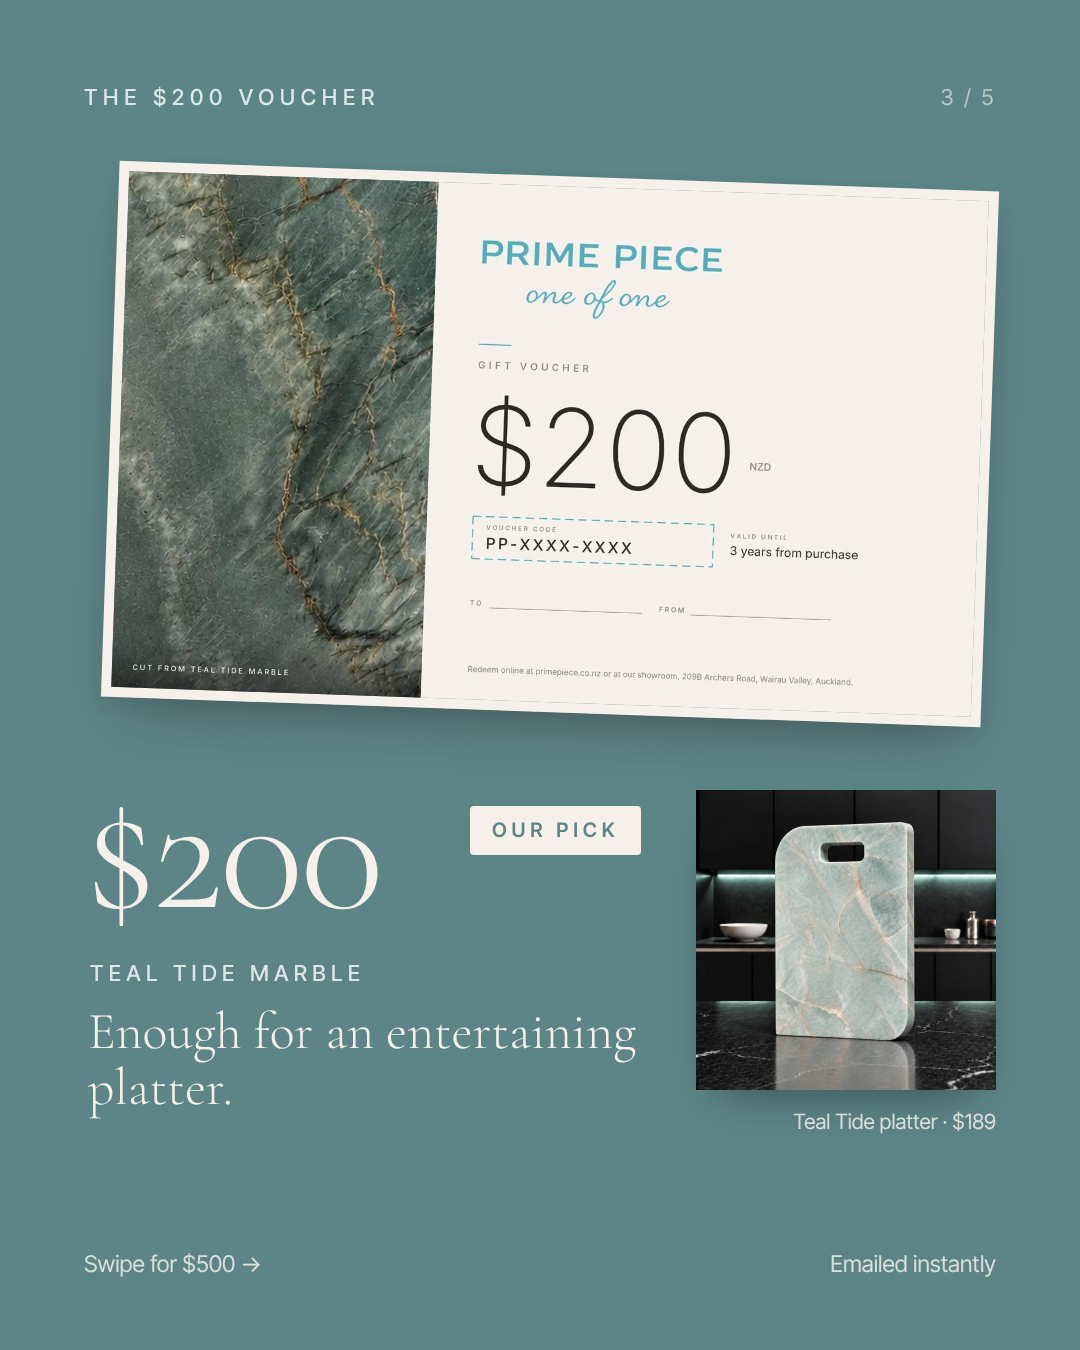
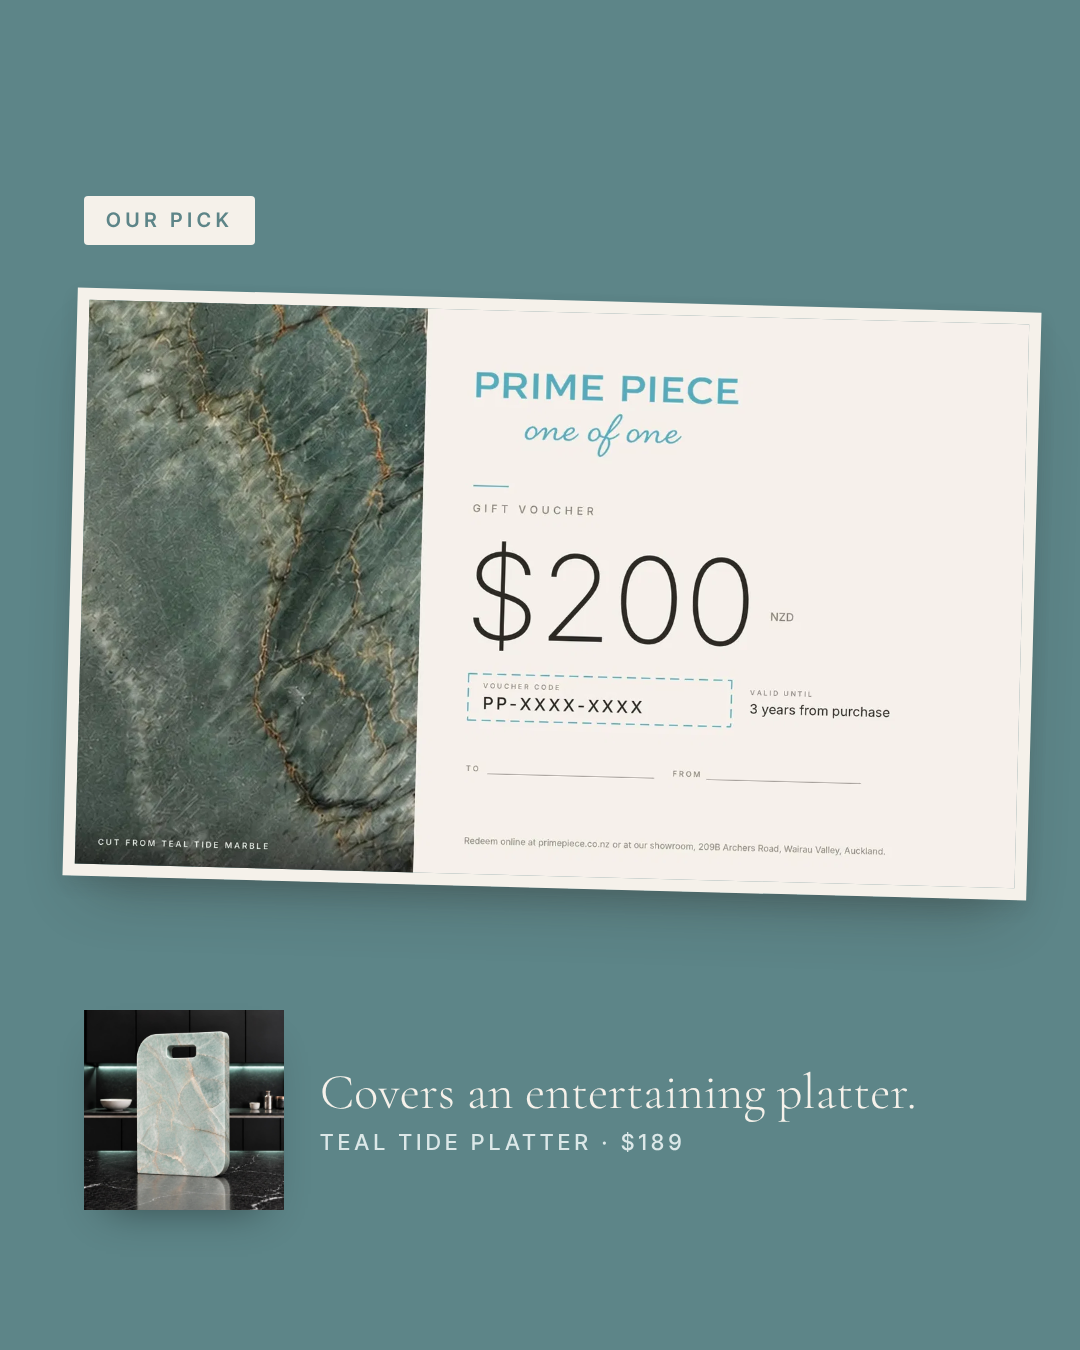
Simplify the voucher carousel: bigger vouchers, one line per slide, new cover line
Claude-Session: https://claude.ai/code/session_01MMmJr8UhcyXTTTPutn6sSp

diff --git a/brand-kit/social/src/vc-shared.css b/brand-kit/social/src/vc-shared.css
@@ -1,15 +1,11 @@
-/* "Meet the vouchers" carousel · IG 4:5, 1080×1350. One slide per voucher, coloured by its stone. */
+/* "Meet the vouchers" carousel · IG 4:5, 1080×1350. One slide per voucher, coloured by its stone.
+   Kept deliberately sparse: the voucher is the hero, one line and one real piece underneath. */
 html,body,.page{width:1080px;height:1350px}
-.top{position:absolute;left:84px;right:84px;top:84px;display:flex;justify-content:space-between;align-items:baseline;font-size:22px}
-.top .eyebrow{font-size:22px}
-.top .num{color:var(--stone);letter-spacing:.12em}
-.hero{position:absolute;left:110px;top:176px;width:860px;height:516px;transform:rotate(-2.5deg)}
-.hero.v.framed{border-width:10px}
-.amt{position:absolute;left:84px;top:772px;font-family:"Cormorant Garamond",serif;font-weight:300;font-size:176px;line-height:.9;letter-spacing:-.02em}
-.stone{position:absolute;left:90px;top:960px;font-size:22px;font-weight:500;letter-spacing:.24em;text-transform:uppercase}
-.what{position:absolute;left:88px;top:1004px;width:560px;font-family:"Cormorant Garamond",serif;font-weight:300;font-size:52px;line-height:1.08}
-.thumb{position:absolute;right:84px;top:790px;width:300px;height:300px;overflow:hidden;box-shadow:0 24px 44px -24px rgba(0,0,0,.45)}
-.thumb img{display:block;width:100%;height:100%;object-fit:cover}
-.cap{position:absolute;right:84px;top:1108px;width:300px;font-size:21px;line-height:1.35;text-align:right}
-.foot{position:absolute;left:84px;right:84px;bottom:72px;display:flex;justify-content:space-between;font-size:23px}
-.tag{position:absolute;left:470px;top:806px;padding:12px 22px 13px;border-radius:4px;font-size:20px;font-weight:600;letter-spacing:.24em;text-transform:uppercase}
+.hero{position:absolute;left:70px;top:300px;width:940px;height:564px;transform:rotate(-2deg)}
+.hero.v.framed{border-width:12px}
+.piece{position:absolute;left:84px;top:1010px;display:flex;align-items:center;gap:36px}
+.piece .thumb{width:200px;height:200px;overflow:hidden;flex:none;box-shadow:0 20px 40px -22px rgba(0,0,0,.45)}
+.piece .thumb img{display:block;width:100%;height:100%;object-fit:cover}
+.piece .line{font-family:"Cormorant Garamond",serif;font-weight:300;font-size:50px;line-height:1.1}
+.piece .line small{display:block;margin-top:10px;font-family:"Inter Tight",sans-serif;font-size:22px;font-weight:500;letter-spacing:.2em;text-transform:uppercase}
+.tag{position:absolute;left:84px;top:196px;padding:12px 22px 13px;border-radius:4px;font-size:20px;font-weight:600;letter-spacing:.24em;text-transform:uppercase}

diff --git a/brand-kit/social/src/vc-5.html b/brand-kit/social/src/vc-5.html
@@ -3,25 +3,13 @@
 <html><head><meta charset="utf-8"><link rel="stylesheet" href="base.css"><link rel="stylesheet" href="vc-shared.css">
 <style>
 .page{background:var(--ivory)}
-.h1{position:absolute;left:84px;top:150px;font-size:104px}
-.list{position:absolute;left:84px;top:430px;width:912px;list-style:none}
-.list li{display:flex;gap:28px;align-items:baseline;padding:30px 0;border-top:1.5px solid var(--line);font-size:32px;color:var(--charcoal)}
-.list li:last-child{border-bottom:1.5px solid var(--line)}
-.list b{font-family:"Cormorant Garamond",serif;font-weight:300;font-size:44px;color:var(--sage-deep);width:44px}
-.cta{position:absolute;left:84px;top:870px;padding:26px 48px 27px;background:var(--charcoal);color:var(--ivory);font-size:24px}
-.url{position:absolute;left:88px;top:972px;font-size:26px;color:var(--ink-soft)}
-.logo{right:84px;bottom:72px;width:210px}
-.foot{right:auto}
-.foot .num{color:var(--stone);letter-spacing:.12em}
+.h1{position:absolute;left:0;right:0;top:430px;text-align:center;font-size:120px}
+.sub{position:absolute;left:0;right:0;top:720px;text-align:center;font-size:28px;color:var(--ink-soft);letter-spacing:.02em}
+.cta{position:absolute;left:50%;top:800px;transform:translateX(-50%);padding:26px 50px 27px;background:var(--charcoal);color:var(--ivory);font-size:24px;white-space:nowrap}
+.logo{left:50%;bottom:90px;width:220px;transform:translateX(-50%)}
 </style></head><body><div class="page">
-<div class="top"><span class="eyebrow">How it works</span><span class="num">5 / 5</span></div>
 <div class="h h1">Their taste.<br><em>Their choice.</em></div>
-<ul class="list">
-  <li><b>1</b>Emailed the moment you pay. No cut-off.</li>
-  <li><b>2</b>Spend on anything, online or in our showroom.</li>
-  <li><b>3</b>Valid for 3 years. Change comes back as credit.</li>
-</ul>
-<div class="cta pill">Shop gift vouchers</div>
-<div class="url">Link in bio · primepiece.co.nz/vouchers</div>
+<div class="sub">Emailed instantly · $100 · $200 · $500 NZD</div>
+<div class="cta pill">Link in bio</div>
 <img class="logo" src="../assets/prime-piece-logo-teal.png" alt="Prime Piece">
 </div></body></html>

diff --git a/brand-kit/social/src/vc-1.html b/brand-kit/social/src/vc-1.html
@@ -3,19 +3,14 @@
 <html><head><meta charset="utf-8"><link rel="stylesheet" href="base.css"><link rel="stylesheet" href="vc-shared.css">
 <style>
 .page{background:var(--ivory)}
-.h1{position:absolute;left:84px;top:140px;font-size:96px}
-.sub{position:absolute;left:88px;top:360px;width:820px;font-size:28px;line-height:1.5;color:var(--ink-soft)}
-.v.a{left:84px;top:478px;width:540px;height:324px;transform:rotate(-4deg)}
-.v.b{left:270px;top:676px;width:540px;height:324px;transform:rotate(1deg)}
-.v.c{left:456px;top:874px;width:540px;height:324px;transform:rotate(-2deg)}
-.foot{color:var(--sage-deep);font-weight:500}
-.foot .num{color:var(--stone);font-weight:400;letter-spacing:.12em}
+.h1{position:absolute;left:84px;top:120px;font-size:100px}
+.v.a{left:70px;top:430px;width:600px;height:360px;transform:rotate(-4deg)}
+.v.b{left:240px;top:648px;width:600px;height:360px;transform:rotate(1deg)}
+.v.c{left:410px;top:866px;width:600px;height:360px;transform:rotate(-2deg)}
+.swipe{position:absolute;right:84px;top:162px;font-size:24px;font-weight:500;color:var(--sage-deep)}
 </style></head><body><div class="page">
-<div class="top"><span class="eyebrow">Prime Piece gift vouchers</span><span class="num">1 / 5</span></div>
-<div class="h h1">Three vouchers.<br><em>Three real stones.</em></div>
-<div class="sub">Each one is printed with a different marble from our workshop. Pick the one that suits them.</div>
+<div class="h h1">Can't pick their stone?<br><em>Let them.</em></div>
 <div class="v light a"><img src="../assets/voucher-100.webp" alt="$100 gift voucher"></div>
 <div class="v light b"><img src="../assets/voucher-200.webp" alt="$200 gift voucher"></div>
 <div class="v c"><img src="../assets/voucher-500.webp" alt="$500 gift voucher"></div>
-<div class="foot"><span>Swipe to meet them →</span><span class="num">$100 · $200 · $500 NZD</span></div>
 </div></body></html>

diff --git a/brand-kit/social/src/vc-4.html b/brand-kit/social/src/vc-4.html
@@ -3,17 +3,11 @@
 <html><head><meta charset="utf-8"><link rel="stylesheet" href="base.css"><link rel="stylesheet" href="vc-shared.css">
 <style>
 .page{background:var(--charcoal);color:var(--ivory)}
-.top .eyebrow,.stone{color:var(--sage-soft)} .top .num{color:rgba(245,241,234,.5)}
-.cap,.foot{color:rgba(245,241,234,.75)}
-.hero.v{box-shadow:0 40px 70px -26px rgba(0,0,0,.7),0 10px 22px rgba(0,0,0,.3)}
-.thumb img{object-position:45% 45%;transform:scale(1.15)}
+.piece .line small{color:var(--sage-soft)}
+.hero{transform:rotate(-1.5deg)}
+.piece .thumb img{object-position:45% 45%;transform:scale(1.15)}
+.hero.v{box-shadow:0 44px 80px -26px rgba(0,0,0,.75),0 10px 22px rgba(0,0,0,.3)}
 </style></head><body><div class="page">
-<div class="top"><span class="eyebrow">The $500 voucher</span><span class="num">4 / 5</span></div>
-<div class="hero v framed"><img src="../assets/voucher-500.webp" alt="$500 Prime Piece gift voucher"></div>
-<div class="amt">$500</div>
-<div class="stone">Emerald Vein marble</div>
-<div class="what">Enough for a one-of-one marble table.</div>
-<div class="thumb"><img src="../assets/photos/table-serpentine-storm.jpg" alt="Serpentine Storm green marble table"></div>
-<div class="cap">Serpentine Storm table · $490</div>
-<div class="foot"><span>Swipe →</span><span>Emailed instantly</span></div>
+<div class="hero v framed "><img src="../assets/voucher-500.webp" alt="$500 Prime Piece gift voucher"></div>
+<div class="piece"><div class="thumb"><img src="../assets/photos/table-serpentine-storm.jpg" alt="Serpentine Storm table"></div><div class="line">Covers a one-of-one marble table.<small>Serpentine Storm table · $490</small></div></div>
 </div></body></html>

diff --git a/brand-kit/social/src/vc-2.html b/brand-kit/social/src/vc-2.html
@@ -2,16 +2,12 @@
 <!-- Meet the vouchers carousel, slide 2 of 5 · IG 4:5 1080×1350. -->
 <html><head><meta charset="utf-8"><link rel="stylesheet" href="base.css"><link rel="stylesheet" href="vc-shared.css">
 <style>
-.page{background:var(--cream-soft)}
-.thumb img{object-position:50% 0;transform:scale(1.22);transform-origin:50% 22%}
-.stone{color:var(--sage-deep)} .cap{color:var(--ink-soft)} .foot{color:var(--ink-soft)}
+.page{background:var(--cream-soft);color:var(--charcoal)}
+.piece .line small{color:var(--sage-deep)}
+.hero{transform:rotate(-2deg)}
+.piece .thumb img{object-position:50% 0;transform:scale(1.22);transform-origin:50% 22%}
+
 </style></head><body><div class="page">
-<div class="top"><span class="eyebrow">The $100 voucher</span><span class="num">2 / 5</span></div>
-<div class="hero v light framed"><img src="../assets/voucher-100.webp" alt="$100 Prime Piece gift voucher"></div>
-<div class="amt">$100</div>
-<div class="stone">White Haven marble</div>
-<div class="what">Enough for a marble serving board.</div>
-<div class="thumb"><img src="../assets/photos/board-white-haven.jpg" alt="White Haven marble serving board"></div>
-<div class="cap">White Haven serving board · $99</div>
-<div class="foot"><span>Swipe for $200 →</span><span>Emailed instantly</span></div>
+<div class="hero v framed light"><img src="../assets/voucher-100.webp" alt="$100 Prime Piece gift voucher"></div>
+<div class="piece"><div class="thumb"><img src="../assets/photos/board-white-haven.jpg" alt="White Haven board"></div><div class="line">Covers a marble serving board.<small>White Haven board · $99</small></div></div>
 </div></body></html>

diff --git a/brand-kit/social/src/vc-3.html b/brand-kit/social/src/vc-3.html
@@ -3,19 +3,12 @@
 <html><head><meta charset="utf-8"><link rel="stylesheet" href="base.css"><link rel="stylesheet" href="vc-shared.css">
 <style>
 .page{background:var(--sage-deep);color:var(--ivory)}
-.top .eyebrow,.stone{color:#DCE8E8} .top .num{color:rgba(245,241,234,.6)}
-.cap,.foot{color:rgba(245,241,234,.82)}
-.hero{transform:rotate(2deg)}
+.piece .line small{color:#DCE8E8}
+.hero{transform:rotate(1.5deg)}
+.piece .thumb img{object-position:50% 40%}
 .tag{background:var(--ivory);color:var(--sage-deep)}
-.thumb img{object-position:50% 40%}
 </style></head><body><div class="page">
-<div class="top"><span class="eyebrow">The $200 voucher</span><span class="num">3 / 5</span></div>
-<div class="hero v framed"><img src="../assets/voucher-200.webp" alt="$200 Prime Piece gift voucher"></div>
-<div class="amt">$200</div>
 <div class="tag">Our pick</div>
-<div class="stone">Teal Tide marble</div>
-<div class="what">Enough for an entertaining platter.</div>
-<div class="thumb"><img src="../assets/photos/platter-teal-tide.jpg" alt="Teal Tide marble entertaining platter"></div>
-<div class="cap">Teal Tide platter · $189</div>
-<div class="foot"><span>Swipe for $500 →</span><span>Emailed instantly</span></div>
+<div class="hero v framed "><img src="../assets/voucher-200.webp" alt="$200 Prime Piece gift voucher"></div>
+<div class="piece"><div class="thumb"><img src="../assets/photos/platter-teal-tide.jpg" alt="Teal Tide platter"></div><div class="line">Covers an entertaining platter.<small>Teal Tide platter · $189</small></div></div>
 </div></body></html>

diff --git a/brand-kit/social/README.md b/brand-kit/social/README.md
@@ -7,7 +7,7 @@ Every design is HTML in `src/` using the brand's own font files, rendered to `ou
 |---|---|---|
 | `01-their-taste.png` | IG post 1080×1440 | Launch week, any time |
 | `carousel-1.png` … `carousel-4.png` | IG carousel, 4 slides | Launch week (Sat 7 Nov): "What will they choose?" |
-| `vc-1.png` … `vc-5.png` | IG carousel, 5 slides, 4:5 (1080×1350) | "Meet the vouchers": one slide per voucher, coloured by its stone, each with a real piece it covers |
+| `vc-1.png` … `vc-5.png` | IG carousel, 5 slides, 4:5 (1080×1350) | "Can't pick their stone? Let them.": one big voucher per slide, coloured by its stone, with one real piece it covers. Kept minimal on purpose |
 | `11-poll-story.png` | IG Story | Launch week (Fri 6 Nov): add Instagram's poll sticker in the gap ("Blue" / "Burgundy") |
 | `03-what-will-they-choose.png` | IG post | The single-image version of the carousel |
 | `04-our-pick.png` | IG post | Launch week (Mon 9 Nov) and again in December |
